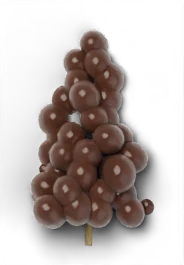
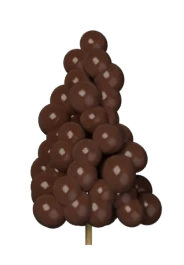
exti_jobs: first final-quality minigame renders
Claude-Session: https://claude.ai/code/session_012rXsPwiZPt1re9TnLD3ayd

diff --git a/resources/[standalone]/exti_jobs/html/jmeta.js b/resources/[standalone]/exti_jobs/html/jmeta.js
@@ -1,2 +1,2 @@
 /* generated by the render studio (j_export.py): sprite anchors and scene points, in scene pixels */
-window.JG_META = {"belt_bg":{"ppm":666.6666666666666,"el":90,"cx":0.0,"cy":0.0,"cz":0.0,"y":311.7,"chute":[600.0,585.0],"x0":-33.3,"x1":1233.3},"bird":{"w":181,"h":264,"ax":133.4,"ay":5.0},"bobber":{"w":51,"h":80,"ax":25.3,"ay":46.7},"box_bg":{"ppm":1200.0,"el":90,"cx":0.0,"cy":0.0,"cz":0.0,"carton":[744.0,345.0],"carton_wh":[480.0,360.0],"bin":[204.0,321.0]},"box_fill":{"w":1200,"h":690,"ax":0,"ay":0},"box_shut":{"w":1200,"h":690,"ax":0,"ay":0},"box_tape":{"w":1200,"h":690,"ax":0,"ay":0},"bunch":{"w":72,"h":109,"ax":38.0,"ay":12.0},"cast":{"w":156,"h":81,"ax":78.0,"ay":40.5},"clippers":{"w":508,"h":100,"ax":499.7,"ay":58.9},"clump":{"w":144,"h":343,"ax":64.3,"ay":311.8},"crucible":{"w":542,"h":165,"ax":459.4,"ay":82.5},"field_bg":{"ppm":400.0,"el":48,"cx":0,"cy":0,"cz":0.0,"spots":[[160.0,241.0],[460.0,241.0],[760.0,241.0],[1040.0,241.0],[160.0,419.3],[460.0,419.3],[760.0,419.3],[1040.0,419.3],[160.0,597.7],[460.0,597.7],[760.0,597.7],[1040.0,597.7]]},"fillet_bg":{"ppm":1200.0,"el":90,"cx":0.0,"cy":0.0,"cz":0.0,"board":[540.0,345.0],"bowl":[1032.0,201.0]},"fillet_top":{"w":435,"h":151,"ax":217.5,"ay":75.5},"fish_jump":{"w":247,"h":66,"ax":112.8,"ay":33.7},"fish_top":{"w":845,"h":171,"ax":385.0,"ay":85.7},"grape_lay":{"w":215,"h":314,"ax":107.6,"ay":157.0},"hen":{"w":182,"h":173,"ax":83.6,"ay":134.6},"ice_cover":{"w":1200,"h":690,"ax":0,"ay":0},"ice_scoop":{"w":294,"h":170,"ax":211.5,"ay":85.0},"icepack_bg":{"ppm":1200.0,"el":90,"cx":0.0,"cy":0.0,"cz":0.0,"tray":[696.0,345.0],"tray_wh":[312.0,456.0],"bin":[192.0,345.0],"roll":[1080.0,81.0]},"knife":{"w":63,"h":44,"ax":10.0,"ay":22.0},"line_bg":{"ppm":500.0,"el":0,"cx":0,"cy":0,"cz":0.66,"rail":55.0,"cut":[600.0,325.0],"bin":[1050.0,575.0]},"loaf_burnt":{"w":128,"h":126,"ax":64.0,"ay":94.1},"loaf_dough":{"w":128,"h":126,"ax":64.0,"ay":94.1},"loaf_golden":{"w":128,"h":126,"ax":64.0,"ay":94.1},"loom_bg":{"ppm":1200.0,"el":90,"cx":0.0,"cy":0.0,"cz":0.0,"cloth_top":81.0,"cloth_bot":633.0,"cloth_x":[174.0,1026.0],"box_l":[96.0,321.0],"box_r":[1104.0,321.0]},"loom_cloth":{"w":1200,"h":690,"ax":0,"ay":0},"mill_bg":{"ppm":750.0,"el":90,"cx":0.0,"cy":0.0,"cz":0.0,"center":[600.0,345.0],"spout":[600.0,195.0],"sack":[1050.0,532.5]},"mine_bg":{"ppm":500.0,"el":0,"cx":0,"cy":0,"cz":0.65,"area":[[125.0,-55.0],[1075.0,720.0]]},"molten":{"w":156,"h":81,"ax":78.0,"ay":40.5},"nodule0":{"w":133,"h":143,"ax":67.2,"ay":72.2},"nodule1":{"w":146,"h":138,"ax":73.9,"ay":69.4},"nodule2":{"w":117,"h":115,"ax":59.4,"ay":58.0},"ore_a":{"w":109,"h":96,"ax":55.2,"ay":46.9},"ore_b":{"w":110,"h":95,"ax":55.7,"ay":46.5},"ore_c":{"w":114,"h":88,"ax":57.3,"ay":43.4},"oven_bg":{"ppm":600.0,"el":14,"cx":0,"cy":0.3,"cz":0.3,"spots":[[420.0,483.4],[630.0,483.4],[828.0,483.4]],"mouth":[600.0,388.5]},"pack_bg":{"ppm":1000.0,"el":90,"cx":0.0,"cy":0.0,"cz":0.0,"board":[300.0,325.0],"tray":[900.0,345.0],"tray_wh":[270.0,400.0],"slots":[[825.0,265.0],[900.0,265.0],[975.0,265.0],[825.0,425.0],[900.0,425.0],[975.0,425.0]]},"peel":{"w":216,"h":232,"ax":108.0,"ay":31.3},"pen_bg":{"ppm":375.0,"el":55,"cx":0,"cy":0.1,"cz":0.0,"area":[[56.2,145.3],[1143.8,775.1]]},"pickaxe":{"w":232,"h":460,"ax":115.9,"ay":455.0},"piece":{"w":211,"h":146,"ax":90.3,"ay":72.8},"pier_bg":{"ppm":400.0,"el":38,"cx":0,"cy":0.6,"cz":0.0,"bob":[[360.0,172.6],[760.0,98.7],[960.0,234.2],[520.0,49.5]],"tip":[240.0,258.3]},"rack_bg":{"ppm":1000.0,"el":90,"cx":0.0,"cy":0.0,"cz":0.0,"spots":[[210.0,225.0],[480.0,225.0],[750.0,225.0],[210.0,465.0],[480.0,465.0],[750.0,465.0]],"heater":[1070.0,345.0]},"raisin_lay":{"w":184,"h":265,"ax":91.8,"ay":132.4},"reed":{"w":820,"h":61,"ax":410.0,"ay":25.0},"rod":{"w":300,"h":637,"ax":292.8,"ay":7.1},"runner":{"w":615,"h":615,"ax":307.5,"ay":307.5},"scoop":{"w":316,"h":180,"ax":229.9,"ay":90.0},"sew_bg":{"ppm":1500.0,"el":90,"cx":0.0,"cy":0.0,"cz":0.0,"needle":[600.0,345.0]},"sew_head":{"w":1200,"h":690,"ax":0,"ay":0},"sheaf":{"w":372,"h":83,"ax":164.1,"ay":52.0},"shear_bg":{"ppm":666.6666666666666,"el":90,"cx":0.0,"cy":0.0,"cz":0.0,"sheep":[600.0,345.0]},"sheep_shorn":{"w":775,"h":381,"ax":299.3,"ay":190.4},"sheep_wool":{"w":822,"h":563,"ax":346.4,"ay":279.8,"mask":{"c":16,"cols":52,"rows":36,"bits":"000000000000000000000000000000000000000000000000000000000000000000000000000000000000000000000000000000000000000000000000011100000000000000000000000000000000000000000000000011111110000000000000000000000000000000000000000000111111111100000000000000000000000000000000000000000111111111111110000000000000000000000000000000000000111111111111111111100000000000000000000000000000000111111111111111111111100000000000000000000000000011111111111111111111111111100000000000000000000000011111111111111111111111111111000000000000000000000111111111111111111111111111111111000000000000000000111111111111111111111111111111111111110000000000000111111111111111111111111111111111111110000000000000011111111111111111111111111111111111111000000000000011111111111111111111111111111111111111111111100000001111111111111111111111111111111111111111111111000000111111111111111111111111111111111111111111111110000011111111111111111111111111111111111111111111111000000111111111111111111111111111111111111111111111100000011111111111111111111111111111111111111111111100000001111111111111111111111111111111111111111111100000000111111111111111111111111111111111111100000000000000001111111111111111111111111111111111111000000000000000111111111111111111111111111111111111110000000000000001111111111111111111111111111111111000000000000000000011111111111111111111111111111111000000000000000000001111111111111111111111111111111100000000000000000000011111111111111111111111111111100000000000000000000000111111111111111111111111111000000000000000000000000000111111111111111111111000000000000000000000000000000000000011111111111111000000000000000000000000000000000000000111111111110000000000000000000000000000000000000000000111000000000000000000000000000000000000000000000000000000000000000000000000000000000000000000000000000000000000000000000000000000000000000000000000000000000000000000000000000000000000000000"}},"shuttle":{"w":175,"h":59,"ax":87.6,"ay":29.6},"sickle":{"w":207,"h":190,"ax":195.3,"ay":165.1},"slag_a":{"w":125,"h":102,"ax":61.8,"ay":50.2},"slag_b":{"w":126,"h":104,"ax":62.4,"ay":51.2},"smelt_bg":{"ppm":750.0,"el":90,"cx":0.0,"cy":0.0,"cz":0.0,"molds":[[240.0,345.0],[480.0,345.0],[720.0,345.0],[960.0,345.0]],"mold_wh":[150.0,75.0]},"vine_bg":{"ppm":375.0,"el":6,"cx":0,"cy":0,"cz":0.98,"hang":[[150.0,362.7],[318.8,362.7],[487.5,362.7],[712.5,362.7],[881.2,362.7],[1050.0,362.7]],"crate":[600.0,618.2]}};
+window.JG_META = {"belt_bg":{"ppm":666.6666666666666,"el":90,"cx":0.0,"cy":0.0,"cz":0.0,"y":311.7,"chute":[600.0,585.0],"x0":-33.3,"x1":1233.3},"bird":{"w":181,"h":264,"ax":133.4,"ay":5.0},"bobber":{"w":51,"h":80,"ax":25.3,"ay":46.7},"box_bg":{"ppm":1200.0,"el":90,"cx":0.0,"cy":0.0,"cz":0.0,"carton":[744.0,345.0],"carton_wh":[480.0,360.0],"bin":[204.0,321.0]},"box_fill":{"w":1200,"h":690,"ax":0,"ay":0},"box_shut":{"w":1200,"h":690,"ax":0,"ay":0},"box_tape":{"w":1200,"h":690,"ax":0,"ay":0},"bunch":{"w":72,"h":109,"ax":38.0,"ay":12.0},"cast":{"w":156,"h":81,"ax":78.0,"ay":40.5},"clippers":{"w":508,"h":100,"ax":499.7,"ay":58.9},"clump":{"w":144,"h":343,"ax":64.3,"ay":311.8},"crucible":{"w":542,"h":165,"ax":459.4,"ay":82.5},"field_bg":{"ppm":400.0,"el":48,"cx":0,"cy":0,"cz":0.0,"spots":[[160.0,241.0],[460.0,241.0],[760.0,241.0],[1040.0,241.0],[160.0,419.3],[460.0,419.3],[760.0,419.3],[1040.0,419.3],[160.0,597.7],[460.0,597.7],[760.0,597.7],[1040.0,597.7]]},"fillet_bg":{"ppm":1200.0,"el":90,"cx":0.0,"cy":0.0,"cz":0.0,"board":[540.0,345.0],"bowl":[1032.0,201.0]},"fillet_top":{"w":435,"h":151,"ax":217.5,"ay":75.5},"fish_jump":{"w":247,"h":66,"ax":112.8,"ay":33.7},"fish_top":{"w":845,"h":171,"ax":385.0,"ay":85.7},"grape_lay":{"w":215,"h":314,"ax":107.6,"ay":157.0},"hen":{"w":182,"h":173,"ax":83.6,"ay":134.6},"ice_cover":{"w":1200,"h":690,"ax":0,"ay":0},"ice_scoop":{"w":294,"h":170,"ax":211.5,"ay":85.0},"icepack_bg":{"ppm":1200.0,"el":90,"cx":0.0,"cy":0.0,"cz":0.0,"tray":[696.0,345.0],"tray_wh":[312.0,456.0],"bin":[192.0,345.0],"roll":[1080.0,81.0]},"knife":{"w":63,"h":44,"ax":10.0,"ay":22.0},"line_bg":{"ppm":500.0,"el":0,"cx":0,"cy":0,"cz":0.66,"rail":55.0,"cut":[600.0,325.0],"bin":[1050.0,575.0]},"loaf_burnt":{"w":128,"h":126,"ax":64.0,"ay":94.1},"loaf_dough":{"w":128,"h":126,"ax":64.0,"ay":94.1},"loaf_golden":{"w":128,"h":126,"ax":64.0,"ay":94.1},"loom_bg":{"ppm":1200.0,"el":90,"cx":0.0,"cy":0.0,"cz":0.0,"cloth_top":81.0,"cloth_bot":633.0,"cloth_x":[174.0,1026.0],"box_l":[96.0,321.0],"box_r":[1104.0,321.0]},"loom_cloth":{"w":1200,"h":690,"ax":0,"ay":0},"mill_bg":{"ppm":750.0,"el":90,"cx":0.0,"cy":0.0,"cz":0.0,"center":[600.0,345.0],"spout":[600.0,195.0],"sack":[1050.0,532.5]},"mine_bg":{"ppm":500.0,"el":0,"cx":0,"cy":0,"cz":0.65,"area":[[125.0,-55.0],[1075.0,720.0]]},"molten":{"w":156,"h":81,"ax":78.0,"ay":40.5},"nodule0":{"w":133,"h":143,"ax":67.2,"ay":72.2},"nodule1":{"w":146,"h":138,"ax":73.9,"ay":69.4},"nodule2":{"w":117,"h":115,"ax":59.4,"ay":58.0},"ore_a":{"w":109,"h":96,"ax":55.2,"ay":46.9},"ore_b":{"w":110,"h":95,"ax":55.7,"ay":46.5},"ore_c":{"w":114,"h":88,"ax":57.3,"ay":43.4},"oven_bg":{"ppm":600.0,"el":14,"cx":0,"cy":0.3,"cz":0.3,"spots":[[420.0,483.4],[630.0,483.4],[828.0,483.4]],"mouth":[600.0,388.5]},"pack_bg":{"ppm":1000.0,"el":90,"cx":0.0,"cy":0.0,"cz":0.0,"board":[300.0,325.0],"tray":[900.0,345.0],"tray_wh":[270.0,400.0],"slots":[[825.0,265.0],[900.0,265.0],[975.0,265.0],[825.0,425.0],[900.0,425.0],[975.0,425.0]]},"peel":{"w":216,"h":232,"ax":108.0,"ay":31.3},"pen_bg":{"ppm":375.0,"el":55,"cx":0,"cy":0.1,"cz":0.0,"area":[[56.2,145.3],[1143.8,775.1]]},"pickaxe":{"w":232,"h":460,"ax":115.9,"ay":455.0},"piece":{"w":211,"h":146,"ax":90.3,"ay":72.8},"pier_bg":{"ppm":400.0,"el":38,"cx":0,"cy":0.6,"cz":0.0,"bob":[[360.0,172.6],[760.0,98.7],[960.0,234.2],[520.0,49.5]],"tip":[240.0,258.3]},"rack_bg":{"ppm":1000.0,"el":90,"cx":0.0,"cy":0.0,"cz":0.0,"spots":[[210.0,225.0],[480.0,225.0],[750.0,225.0],[210.0,465.0],[480.0,465.0],[750.0,465.0]],"heater":[1070.0,345.0]},"raisin_lay":{"w":184,"h":265,"ax":91.8,"ay":132.4},"reed":{"w":820,"h":61,"ax":410.0,"ay":25.0},"rod":{"w":300,"h":637,"ax":292.8,"ay":7.1},"runner":{"w":615,"h":615,"ax":307.5,"ay":307.5},"scoop":{"w":316,"h":180,"ax":229.9,"ay":90.0},"sew_bg":{"ppm":1500.0,"el":90,"cx":0.0,"cy":0.0,"cz":0.0,"needle":[600.0,345.0]},"sew_head":{"w":1200,"h":690,"ax":0,"ay":0},"sheaf":{"w":343,"h":114,"ax":156.1,"ay":67.7},"shear_bg":{"ppm":666.6666666666666,"el":90,"cx":0.0,"cy":0.0,"cz":0.0,"sheep":[600.0,345.0]},"sheep_shorn":{"w":775,"h":381,"ax":299.3,"ay":190.4},"sheep_wool":{"w":822,"h":563,"ax":346.4,"ay":279.8,"mask":{"c":16,"cols":52,"rows":36,"bits":"000000000000000000000000000000000000000000000000000000000000000000000000000000000000000000000000000000000000000000000000011100000000000000000000000000000000000000000000000011111110000000000000000000000000000000000000000000111111111100000000000000000000000000000000000000000111111111111110000000000000000000000000000000000000111111111111111111100000000000000000000000000000000111111111111111111111100000000000000000000000000011111111111111111111111111100000000000000000000000011111111111111111111111111111000000000000000000000111111111111111111111111111111111000000000000000000111111111111111111111111111111111111110000000000000111111111111111111111111111111111111110000000000000011111111111111111111111111111111111111000000000000011111111111111111111111111111111111111111111100000001111111111111111111111111111111111111111111111000000111111111111111111111111111111111111111111111110000011111111111111111111111111111111111111111111111000000111111111111111111111111111111111111111111111100000011111111111111111111111111111111111111111111100000001111111111111111111111111111111111111111111100000000111111111111111111111111111111111111100000000000000001111111111111111111111111111111111111000000000000000111111111111111111111111111111111111110000000000000001111111111111111111111111111111111000000000000000000011111111111111111111111111111111000000000000000000001111111111111111111111111111111100000000000000000000011111111111111111111111111111100000000000000000000000111111111111111111111111111000000000000000000000000000111111111111111111111000000000000000000000000000000000000011111111111111000000000000000000000000000000000000000111111111110000000000000000000000000000000000000000000111000000000000000000000000000000000000000000000000000000000000000000000000000000000000000000000000000000000000000000000000000000000000000000000000000000000000000000000000000000000000000000"}},"shuttle":{"w":175,"h":59,"ax":87.6,"ay":29.6},"sickle":{"w":207,"h":190,"ax":195.3,"ay":165.1},"slag_a":{"w":125,"h":102,"ax":61.8,"ay":50.2},"slag_b":{"w":126,"h":104,"ax":62.4,"ay":51.2},"smelt_bg":{"ppm":750.0,"el":90,"cx":0.0,"cy":0.0,"cz":0.0,"molds":[[240.0,345.0],[480.0,345.0],[720.0,345.0],[960.0,345.0]],"mold_wh":[150.0,75.0]},"vine_bg":{"ppm":375.0,"el":6,"cx":0,"cy":0,"cz":0.98,"hang":[[150.0,362.7],[318.8,362.7],[487.5,362.7],[712.5,362.7],[881.2,362.7],[1050.0,362.7]],"crate":[600.0,618.2]}};
